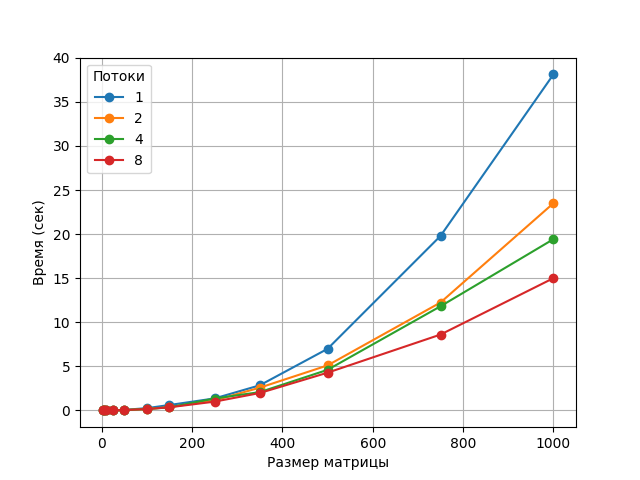
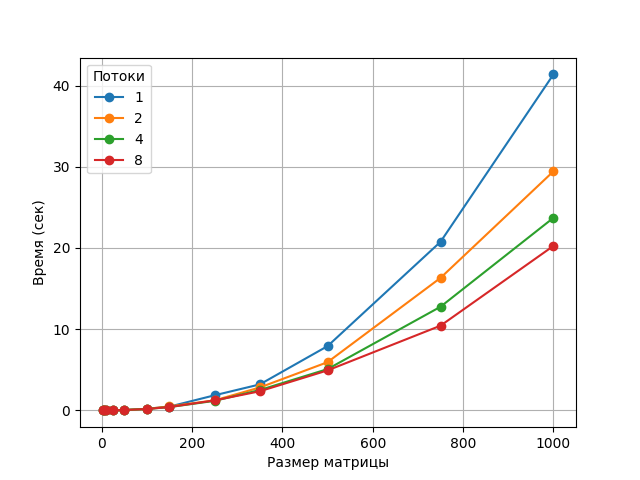
Обновлен отчёт

diff --git a/README.md b/README.md
@@ -1,8 +1,8 @@
-1. Целью данной работы является модификация алгоритма перемножения матриц для реализации параллельных вычислений с использованием OpenMP. Проводится исследование эффективности параллельного алгоритма в зависимости от количества используемых потоков.
+1. Целью данной работы является модификация алгоритма перемножения матриц для реализации параллельных вычислений с использованием MPI. Проводится исследование эффективности параллельного алгоритма в зависимости от количества используемых потоков.
 
-2. Выполнение: https://github.com/den3yb/Parallel-prog/tree/lab-2
+2. Выполнение: https://github.com/den3yb/Parallel-prog/tree/lab-3
 
 3. Экспериментальные данные демонстрируют значительное сокращение времени выполнения программы с увеличением числа рабочих потоков (см. рисунок). При этом, эффект от масштабирования количества потоков наиболее заметен при обработке матриц больших размеров.
-![alt text](image.png)
+![alt text](img.png)
 
-4. Вывод: В ходе выполнения лабораторной работы разработан и исследован параллельный алгоритм перемножения матриц на основе OpenMP. Полученные результаты подтверждают, что применение параллельных методов существенно снижает время выполнения вычислений. Более того, эффективность параллелизации возрастает с увеличением размеров перемножаемых матриц, что свидетельствует о целесообразности использования OpenMP для решения задач использующих большие объемы данных.
+4. Вывод: В ходе выполнения лабораторной работы разработан и исследован параллельный алгоритм перемножения матриц на основе MPI. Полученные результаты подтверждают, что применение параллельных методов существенно снижает время выполнения вычислений. Более того, эффективность параллелизации возрастает с увеличением размеров перемножаемых матриц, что свидетельствует о целесообразности использования OpenMP для решения задач использующих большие объемы данных.
